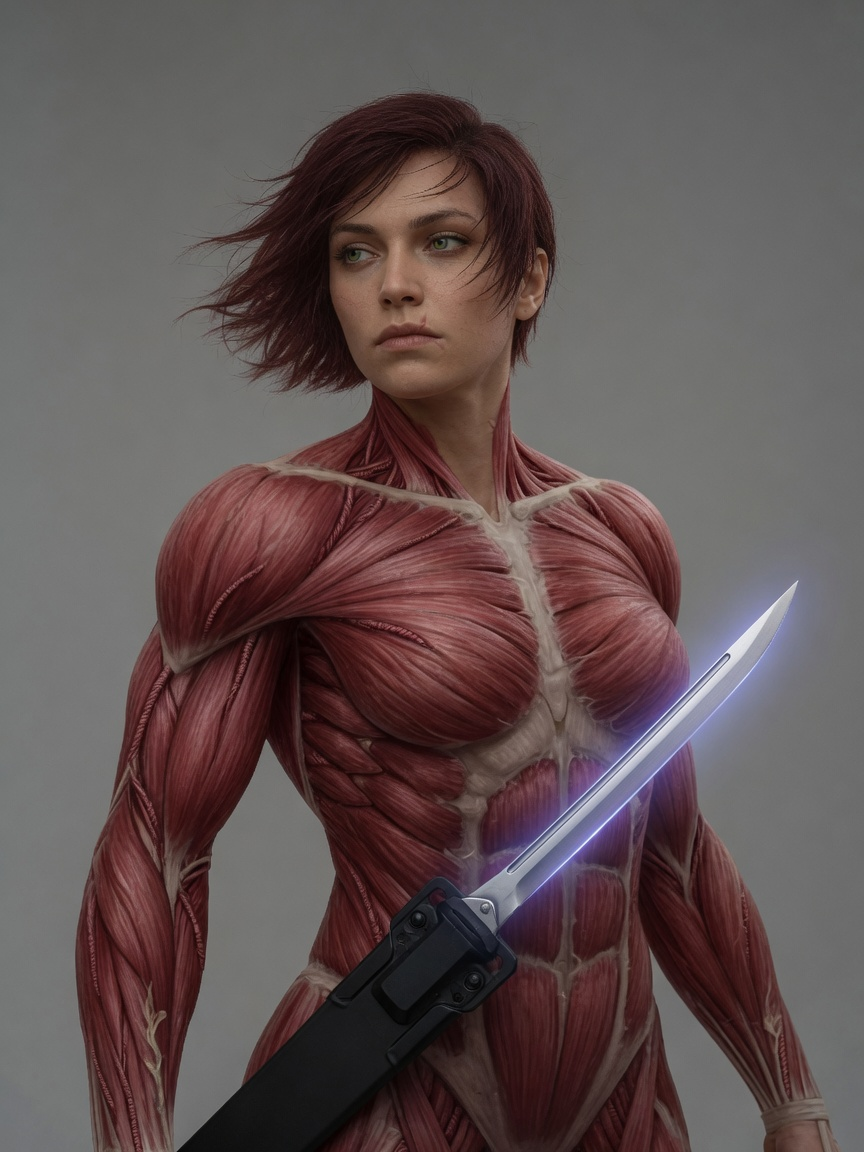
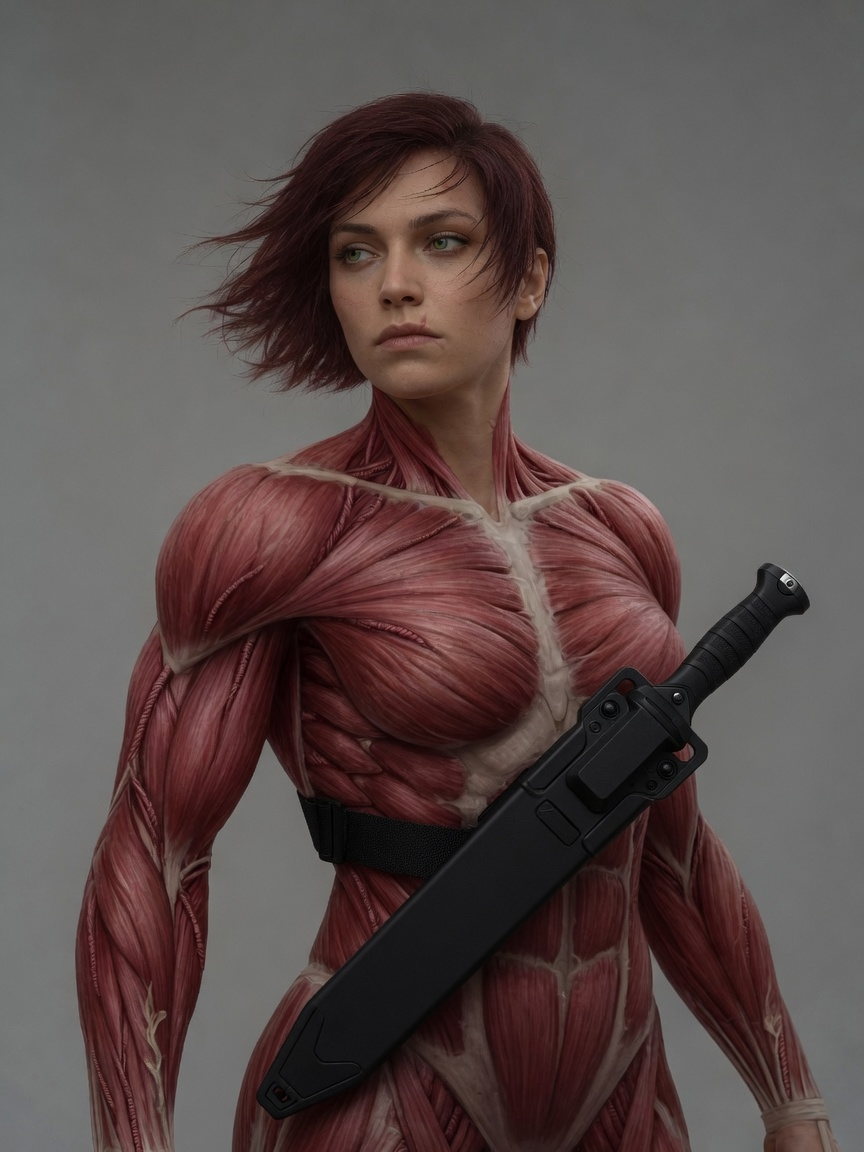
Sheath Liliana’s cherenkov blade on field and civilian plates.
Carry pose only: full tech sheath, point down, no bare edge pointing up.

Changed region(s): [[0.2188, 0.4688, 0.9375, 1.0], [0.3125, 0.8438, 0.4062, 0.9062], [0.4062, 0.8125, 0.4375, 0.8438]]

diff --git a/exodus-the-archimedes-engine/pages/characters/liliana.html b/exodus-the-archimedes-engine/pages/characters/liliana.html
@@ -239,28 +239,28 @@
             stated for her natural look; the plates below keep one consistent face for the combat and
             civilian covers, then switch only what the text switches for the late disguise. The
             infobox portrait is the field kit. Her <strong>cherenkov blade</strong> is a short powered
-            knife — high-tech, not a survival machete — shown charged with a Cherenkov blue-violet edge.
+            knife — high-tech, carried sheathed at the hip, not drawn.
           </p>
           <ul class="look-gallery">
             <li>
               <figure>
                 <div class="look-plate">
-                  <img src="../../assets/images/characters/liliana.jpg" alt="Liliana in earthdragon bioware muscle suit with charged cherenkov blade" width="320" height="427" loading="lazy" decoding="async">
+                  <img src="../../assets/images/characters/liliana.jpg" alt="Liliana in earthdragon bioware muscle suit with sheathed cherenkov blade" width="320" height="427" loading="lazy" decoding="async">
                 </div>
                 <figcaption>
                   <strong>Field kit</strong>
-                  Lightweight earthdragon bioware muscle outfit — “a beefed-up wrestler whose skin had been stripped away.” Compact charged cherenkov blade at the hip. (Infobox portrait.)
+                  Lightweight earthdragon bioware muscle outfit — “a beefed-up wrestler whose skin had been stripped away.” Cherenkov blade fully sheathed at the hip. (Infobox portrait.)
                 </figcaption>
               </figure>
             </li>
             <li>
               <figure>
                 <div class="look-plate">
-                  <img src="../../assets/images/characters/liliana-civilian.jpg" alt="Liliana in dark civilian dress with cherenkov blade" width="320" height="427" loading="lazy" decoding="async">
+                  <img src="../../assets/images/characters/liliana-civilian.jpg" alt="Liliana in dark civilian dress with sheathed cherenkov blade" width="320" height="427" loading="lazy" decoding="async">
                 </div>
                 <figcaption>
                   <strong>Civilian / coquette</strong>
-                  Subdued dark far-future dress off duty; can play the coquette when a job needs it. Same baseline face; short powered blade in a tech sheath.
+                  Subdued dark far-future dress off duty; can play the coquette when a job needs it. Same baseline face; cherenkov blade fully sheathed at the hip.
                 </figcaption>
               </figure>
             </li>

diff --git a/exodus-the-archimedes-engine/docs/visual-briefs/liliana.md b/exodus-the-archimedes-engine/docs/visual-briefs/liliana.md
@@ -31,7 +31,7 @@ Aircraft hatch / Anoosha cloud haze memory
 ## Generation prompt
 
 ```
-Highly detailed cinematic sci-fi encyclopedia illustration, rich textures, sharp focus, painterly digital art with photographic detail, soft volumetric lighting, no text, no watermark, no UI chrome. Upper-body portrait of Liliana, Lidon-linked human mercenary. HER FIELD KIT IS A BIOWARE MUSCLE SUIT, NOT ARMOUR: a close-fitting lightweight suit of sculpted fibre bundles that reads as exposed anatomy — as though a powerfully built wrestler had been skinned — with NO plates, NO cuirass, NO rigid armour panels and no emblems anywhere on it. HER WEAPON IS A CHERENKOV BLADE: a compact high-tech powered combat knife only about 20cm long, sleek far-future design, thin edge with a faint Cherenkov blue-violet glow when charged, slim tech sheath — NOT a machete, NOT a large sword, NOT a wrapped leather survival knife. Striking woman with a cool professional expression. Deniable operator, unsettling to look at. Windy hatch light and cloud haze. Plain even light and an uncluttered background. NO TEXT ANYWHERE IN THE FRAME, on the subject or behind them: no signs, no signage, no neon lettering, no shopfronts, no billboards, no screens, no display panels, no readouts, no holographic interfaces, no console text, no dog tags, no identity discs, no name tapes, no stencilled markings, no unit badges, no insignia, no heraldic emblems, no crests, no repeated motifs, no banners, no murals, no floating symbols or runes, no captions, no labels, no numbers, no logos, no brand marks, no watermarks.
+Highly detailed cinematic sci-fi encyclopedia illustration, rich textures, sharp focus, painterly digital art with photographic detail, soft volumetric lighting, no text, no watermark, no UI chrome. Upper-body portrait of Liliana, Lidon-linked human mercenary. HER FIELD KIT IS A BIOWARE MUSCLE SUIT, NOT ARMOUR: a close-fitting lightweight suit of sculpted fibre bundles that reads as exposed anatomy — as though a powerfully built wrestler had been skinned — with NO plates, NO cuirass, NO rigid armour panels and no emblems anywhere on it. HER CHERENKOV BLADE IS FULLY SHEATHED at the hip: compact high-tech powered knife about 20cm, entire blade hidden in a slim far-future black tech sheath with only the grip visible, point DOWN — NOT drawn, NOT unsheathed, NOT a bare blade pointing up, NOT a machete. Striking woman with a cool professional expression. Deniable operator, unsettling to look at. Windy hatch light and cloud haze. Plain even light and an uncluttered background. NO TEXT ANYWHERE IN THE FRAME, on the subject or behind them: no signs, no signage, no neon lettering, no shopfronts, no billboards, no screens, no display panels, no readouts, no holographic interfaces, no console text, no dog tags, no identity discs, no name tapes, no stencilled markings, no unit badges, no insignia, no heraldic emblems, no crests, no repeated motifs, no banners, no murals, no floating symbols or runes, no captions, no labels, no numbers, no logos, no brand marks, no watermarks.
 ```
 
 ## Sources

diff --git a/exodus-the-archimedes-engine/docs/visual-briefs/IMAGE-REVIEW.md b/exodus-the-archimedes-engine/docs/visual-briefs/IMAGE-REVIEW.md
@@ -1370,8 +1370,8 @@ muscle-suit plate via image-edit; reviewed by eye against the brief and novel.
 
 | File | Role | Verdict |
 |---|---|---|
-| `liliana.jpg` (infobox) | Field kit — earthdragon bioware muscle suit | **PASS** — compact charged cherenkov blade (blue-violet edge), not machete; regen 26 July 2026 |
-| `liliana-civilian.jpg` | Subdued dark civilian / coquette | **PASS** — same face; short powered knife in tech sheath with Cherenkov edge; regen 26 July 2026 |
+| `liliana.jpg` (infobox) | Field kit — earthdragon bioware muscle suit | **PASS** — cherenkov blade fully sheathed, point down; regen 26 July 2026 |
+| `liliana-civilian.jpg` | Subdued dark civilian / coquette | **PASS** — same face; fully sheathed hip carry, no bare edge; regen 26 July 2026 |
 | `liliana-commercial.jpg` | Anoosha commercial emissary | **PASS** — same face; smart high-collar trade dress; no logos |
 | `liliana-disguise.jpg` | Late pale broader-nose mask / Antoinette-2burg | **PASS** — almost-albino skin, clearly broader nose, high standing collar without zip; no text |
 
